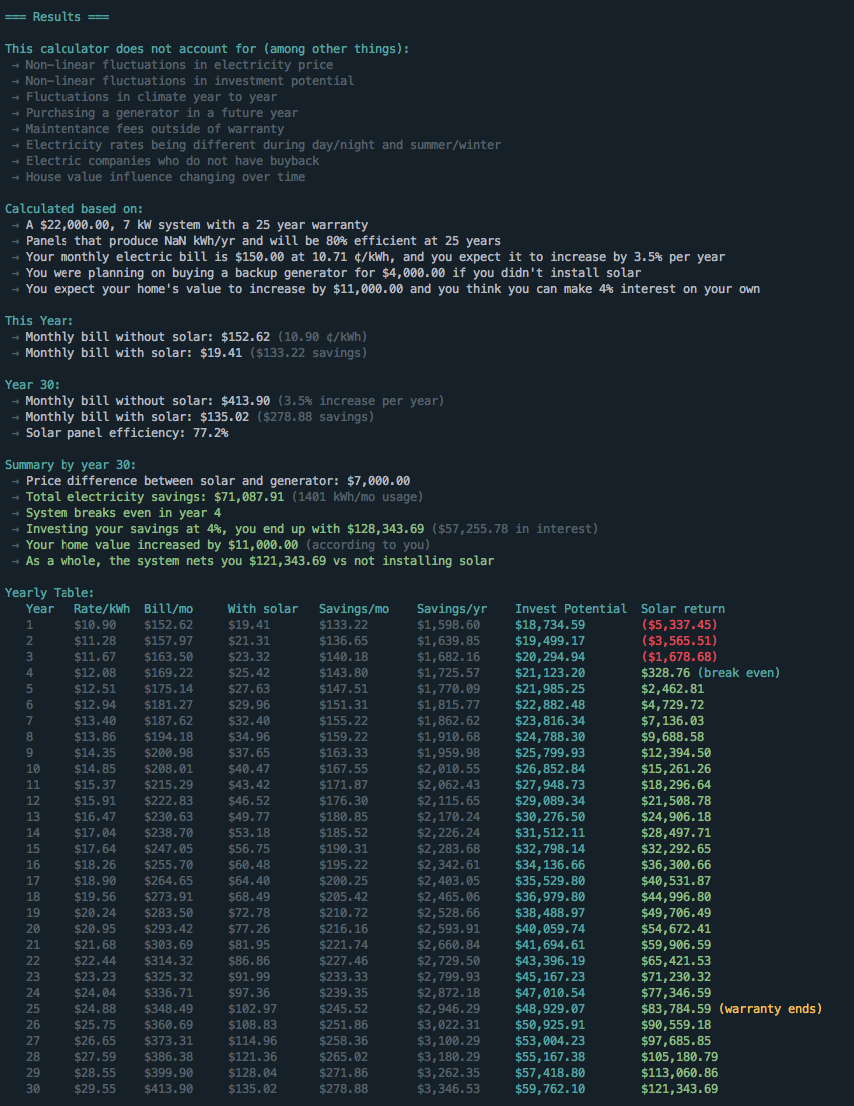
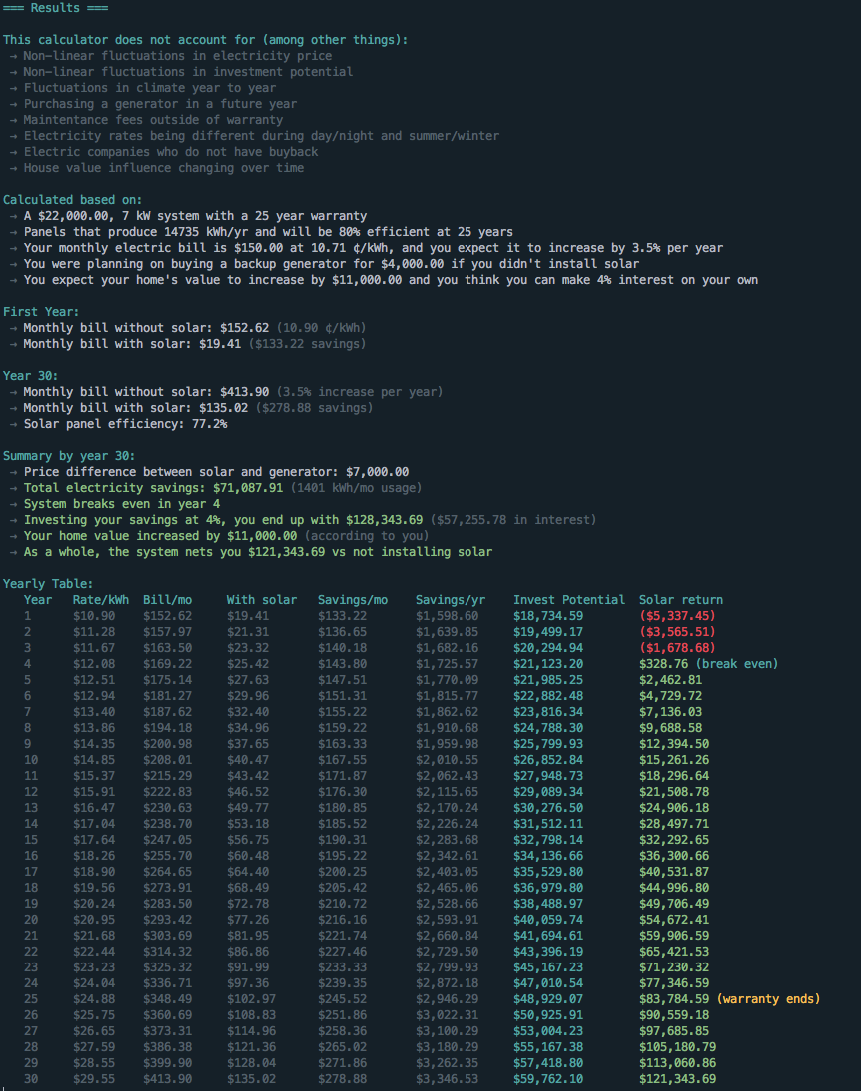
Fix variable reference

Changed region(s): [[0.0, 0.0, 0.9742, 0.9973]]

diff --git a/cost.js b/cost.js
@@ -200,7 +200,7 @@ let printResults = answers => {
 	// Set up variables
 	console.log('Calculated based on:'.cyan);
 	console.log(` → `.grey + `A ${currency(answers.price, 'white')}, ${answers.size} kW system with a ${answers.warranty} year warranty`);
-	console.log(` → `.grey + `Panels that produce ${answers.sunAmount*answers.size} kWh/yr and will be ${answers.longevity}% efficient at ${answers.warranty} years`);
+	console.log(` → `.grey + `Panels that produce ${answers.panelProduction*answers.size} kWh/yr and will be ${answers.longevity}% efficient at ${answers.warranty} years`);
 	console.log(` → `.grey + `Your monthly electric bill is ${currency(answers.averageBill, 'white')} at ${answers.currentRate} ¢/kWh, and you expect it to increase by ${answers.rateGrowth}% per year`);
 	if (answers.generatorCost > 0) {
 		console.log(` → `.grey + `You were planning on buying a backup generator for ${currency(answers.generatorCost, 'white')} if you didn't install solar`);
